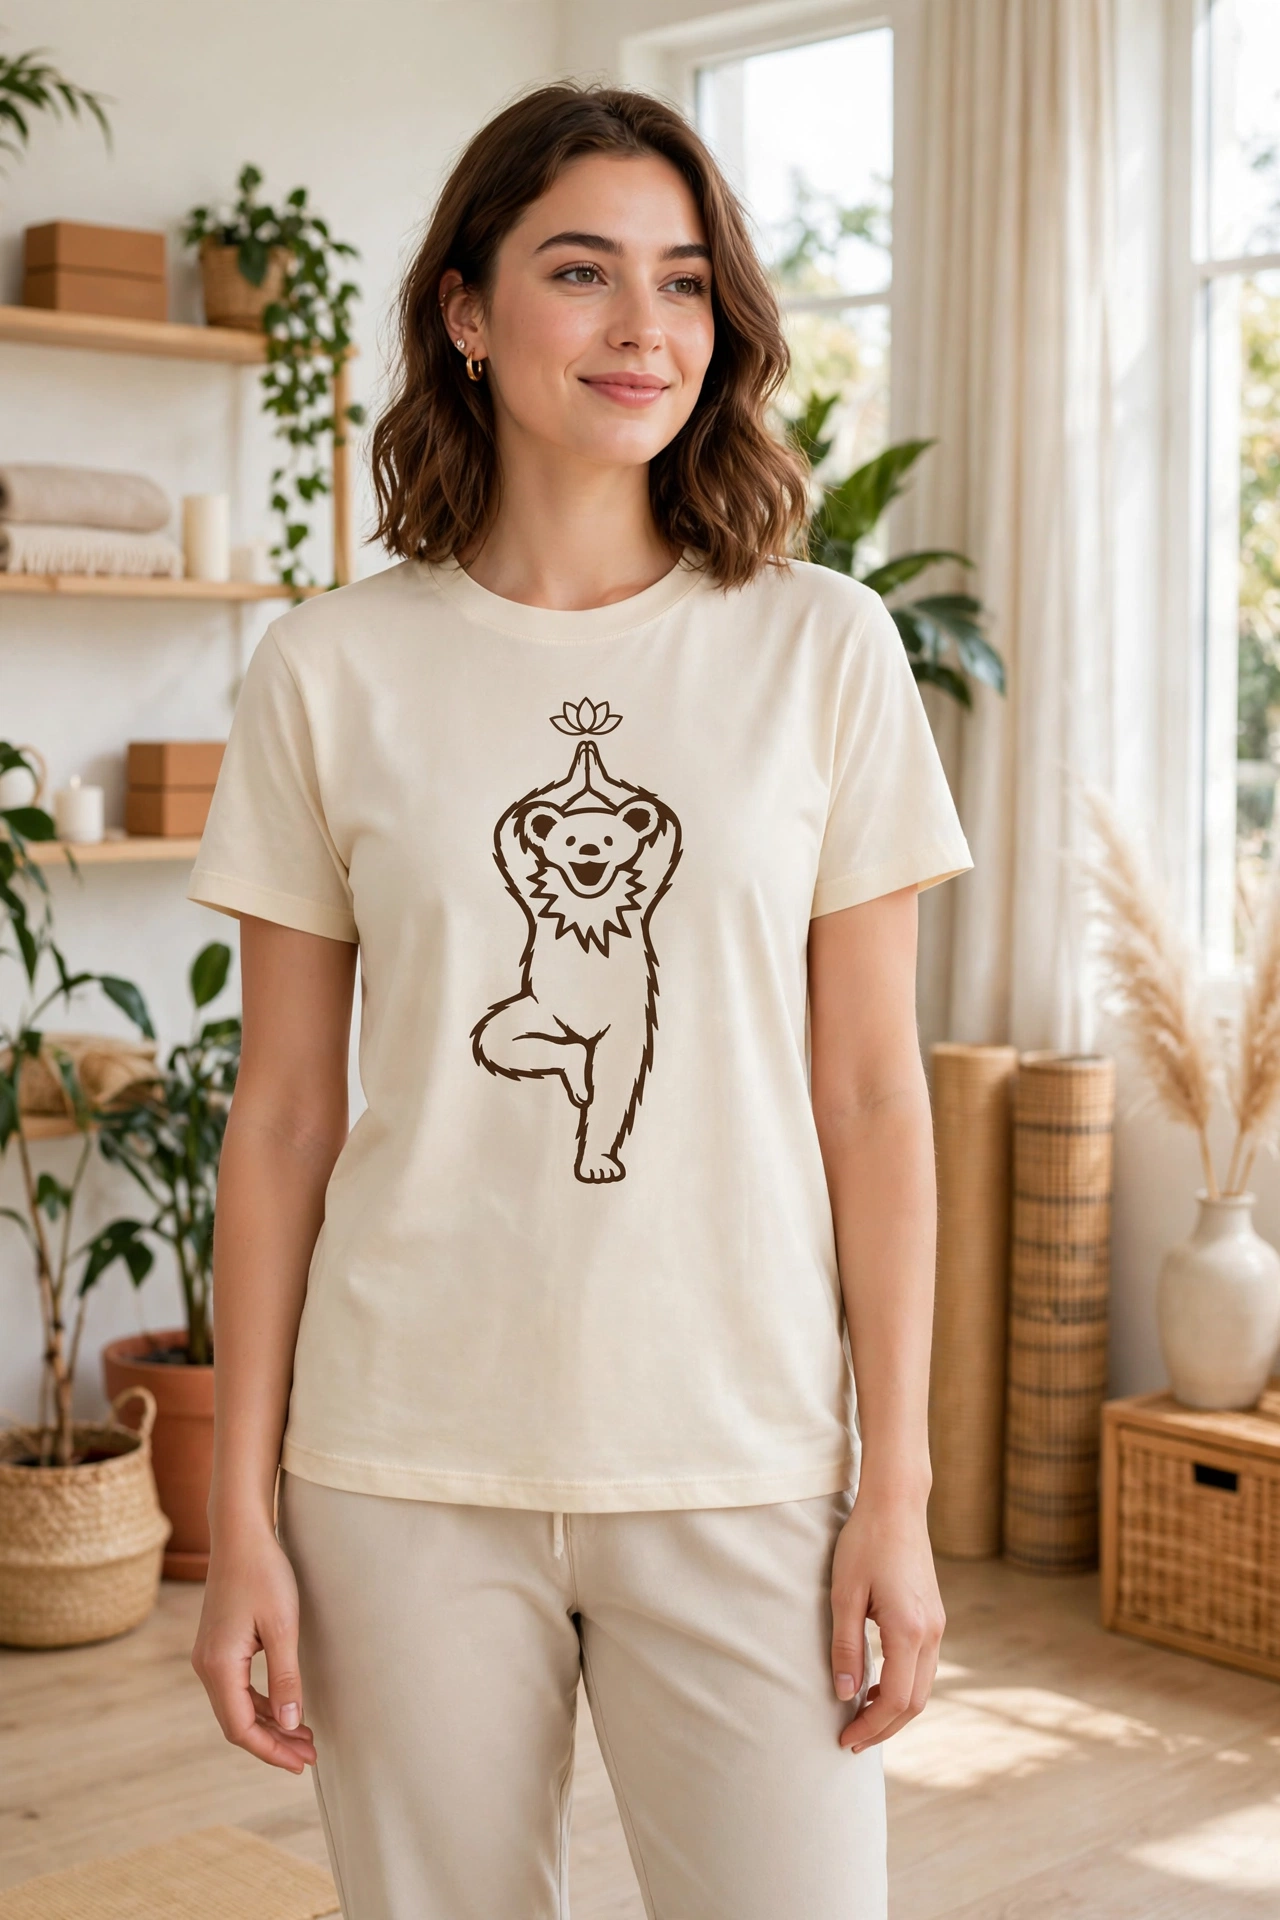
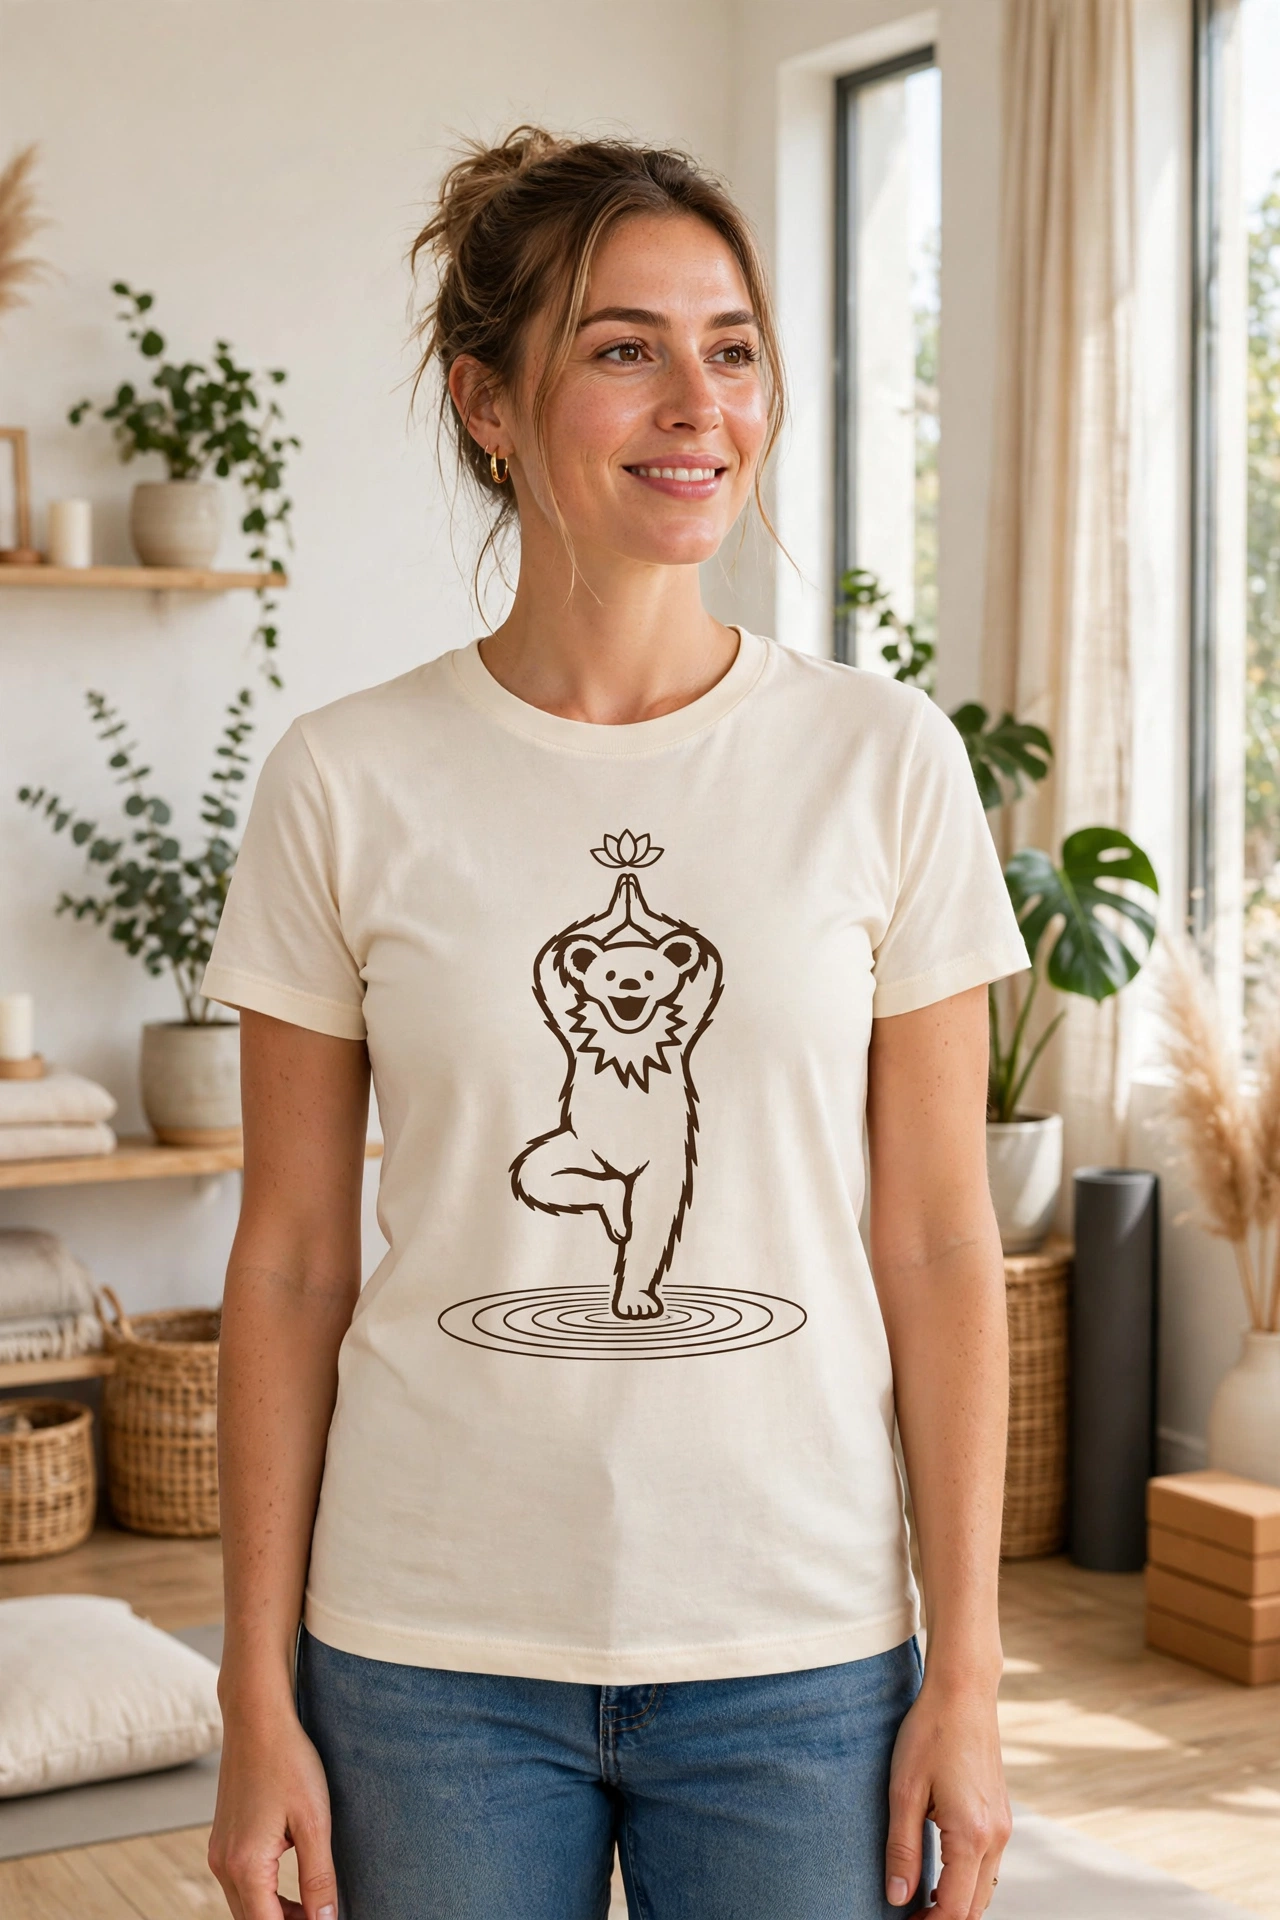
Swipeable shirt mockup gallery + ripple fix

diff --git a/script.js b/script.js
@@ -93,16 +93,67 @@
     if (e.key === 'Escape' && lightbox && lightbox.classList.contains('open')) closeLightbox();
   });
 
-  // Image lightbox — tap Root & Ripple designs to see mockups
+  // Image lightbox / carousel — tap Root & Ripple designs to see mockups
   var imgLightbox = document.getElementById('img-lightbox');
   var lightboxImg = document.getElementById('lightbox-img');
   var imgLightboxClose = document.getElementById('img-lightbox-close');
   var imgLightboxBackdrop = document.getElementById('img-lightbox-backdrop');
+  var carouselPrev = document.getElementById('carousel-prev');
+  var carouselNext = document.getElementById('carousel-next');
+  var carouselDots = document.getElementById('carousel-dots');
 
-  function openImgLightbox(imgSrc, imgAlt) {
+  var galleries = {
+    shirts: [
+      { src: 'mockup-bears-worn.webp', alt: 'Woman wearing the Yoga Bears shirt' },
+      { src: 'mockup-chic-worn.webp', alt: 'Woman wearing the Yoga Series shirt' },
+      { src: 'mockup-pizza-worn.webp', alt: 'Person wearing the Pizza Night shirt' }
+    ]
+  };
+  var currentGallery = null;
+  var currentIndex = 0;
+
+  function showCarouselImage() {
+    if (!currentGallery || !lightboxImg) return;
+    var item = currentGallery[currentIndex];
+    lightboxImg.src = item.src;
+    lightboxImg.alt = item.alt;
+    if (carouselDots) {
+      var dots = carouselDots.querySelectorAll('.dot');
+      dots.forEach(function (d, i) { d.classList.toggle('active', i === currentIndex); });
+    }
+  }
+
+  function buildDots() {
+    if (!carouselDots || !currentGallery) return;
+    carouselDots.innerHTML = '';
+    currentGallery.forEach(function (_, i) {
+      var dot = document.createElement('span');
+      dot.className = 'dot' + (i === 0 ? ' active' : '');
+      dot.addEventListener('click', function (e) { e.stopPropagation(); currentIndex = i; showCarouselImage(); });
+      carouselDots.appendChild(dot);
+    });
+  }
+
+  function setCarouselMode(isCarousel) {
+    [carouselPrev, carouselNext, carouselDots].forEach(function (el) {
+      if (el) el.classList.toggle('hidden', !isCarousel);
+    });
+  }
+
+  function openImgLightbox(src, alt, galleryName, startIndex) {
     if (!imgLightbox || !lightboxImg) return;
-    lightboxImg.src = imgSrc;
-    lightboxImg.alt = imgAlt || '';
+    if (galleryName && galleries[galleryName]) {
+      currentGallery = galleries[galleryName];
+      currentIndex = startIndex || 0;
+      buildDots();
+      setCarouselMode(true);
+      showCarouselImage();
+    } else {
+      currentGallery = null;
+      lightboxImg.src = src;
+      lightboxImg.alt = alt || '';
+      setCarouselMode(false);
+    }
     imgLightbox.classList.add('open');
     imgLightbox.setAttribute('aria-hidden', 'false');
     document.body.style.overflow = 'hidden';
@@ -114,8 +165,16 @@
     imgLightbox.classList.remove('open');
     imgLightbox.setAttribute('aria-hidden', 'true');
     document.body.style.overflow = '';
+    currentGallery = null;
   }
 
+  function carouselStep(dir) {
+    if (!currentGallery) return;
+    currentIndex = (currentIndex + dir + currentGallery.length) % currentGallery.length;
+    showCarouselImage();
+  }
+
+  // Single-image cards (decal -> storefront)
   document.querySelectorAll('.img-card[data-full]').forEach(function (card) {
     card.addEventListener('click', function () {
       var img = card.querySelector('img');
@@ -123,9 +182,39 @@
     });
   });
 
+  // Gallery cards (shirts -> swipeable carousel), start at tapped shirt
+  var shirtOrder = ['mockup-bears-worn.webp', 'mockup-chic-worn.webp', 'mockup-pizza-worn.webp'];
+  document.querySelectorAll('.img-card[data-gallery]').forEach(function (card) {
+    card.addEventListener('click', function () {
+      var img = card.querySelector('img');
+      var startAt = 0;
+      // match tapped thumbnail to its worn mockup
+      if (img && img.src.indexOf('rr-bears') > -1) startAt = 0;
+      else if (img && img.src.indexOf('rr-chic') > -1) startAt = 1;
+      else if (img && img.src.indexOf('rr-pizza') > -1) startAt = 2;
+      openImgLightbox(null, null, card.getAttribute('data-gallery'), startAt);
+    });
+  });
+
+  if (carouselPrev) carouselPrev.addEventListener('click', function (e) { e.stopPropagation(); carouselStep(-1); });
+  if (carouselNext) carouselNext.addEventListener('click', function (e) { e.stopPropagation(); carouselStep(1); });
   if (imgLightboxClose) imgLightboxClose.addEventListener('click', closeImgLightbox);
   if (imgLightboxBackdrop) imgLightboxBackdrop.addEventListener('click', closeImgLightbox);
   document.addEventListener('keydown', function (e) {
-    if (e.key === 'Escape' && imgLightbox && imgLightbox.classList.contains('open')) closeImgLightbox();
+    if (!imgLightbox || !imgLightbox.classList.contains('open')) return;
+    if (e.key === 'Escape') closeImgLightbox();
+    if (e.key === 'ArrowLeft') carouselStep(-1);
+    if (e.key === 'ArrowRight') carouselStep(1);
   });
+
+  // Touch swipe support
+  var touchStartX = 0;
+  if (imgLightbox) {
+    imgLightbox.addEventListener('touchstart', function (e) { touchStartX = e.touches[0].clientX; }, { passive: true });
+    imgLightbox.addEventListener('touchend', function (e) {
+      if (!currentGallery) return;
+      var dx = e.changedTouches[0].clientX - touchStartX;
+      if (Math.abs(dx) > 50) carouselStep(dx < 0 ? 1 : -1);
+    }, { passive: true });
+  }
 })();

diff --git a/index.html b/index.html
@@ -8,7 +8,7 @@
 <link rel="preconnect" href="https://fonts.googleapis.com">
 <link rel="preconnect" href="https://fonts.gstatic.com" crossorigin>
 <link href="https://fonts.googleapis.com/css2?family=Inter:wght@400;500;600;700;800;900&display=swap" rel="stylesheet">
-<link rel="stylesheet" href="style.css?v=4">
+<link rel="stylesheet" href="style.css?v=5">
 </head>
 <body>
 
@@ -154,20 +154,23 @@
     <video class="lightbox-video" id="lightbox-video" controls playsinline preload="none"></video>
   </div>
 
-  <!-- Image lightbox -->
+  <!-- Image lightbox / carousel -->
   <div class="img-lightbox" id="img-lightbox" aria-hidden="true">
     <div class="lightbox-backdrop" id="img-lightbox-backdrop"></div>
     <button class="lightbox-close" id="img-lightbox-close" aria-label="Close image">&times;</button>
+    <button class="carousel-prev" id="carousel-prev" aria-label="Previous image">&#10094;</button>
+    <button class="carousel-next" id="carousel-next" aria-label="Next image">&#10095;</button>
     <img class="lightbox-img" id="lightbox-img" src="" alt="">
+    <div class="carousel-dots" id="carousel-dots"></div>
   </div>
 
       <h3 class="gallery-title">Client Branding — Root and Ripple</h3>
       <p class="gallery-sub">Complete branding package for Root and Ripple, a yoga studio: custom shirt designs and a storefront window decal.</p>
       <div class="gallery">
         <figure class="img-card" data-full="mockup-decal-storefront.webp"><img src="rr-decal.webp" alt="Root and Ripple window decal design — tap to see it on the storefront" loading="lazy"><span class="zoom-badge" aria-hidden="true">&#10729;</span><figcaption>Window Decal — tap to see on storefront</figcaption></figure>
-        <figure class="img-card" data-full="mockup-bears-worn.webp"><img src="rr-bears.webp" alt="Root and Ripple dancing bear yoga shirt designs — tap to see worn" loading="lazy"><span class="zoom-badge" aria-hidden="true">&#10729;</span><figcaption>Shirt Designs — Yoga Bears — tap to see worn</figcaption></figure>
-        <figure class="img-card" data-full="mockup-chic-worn.webp"><img src="rr-chic.webp" alt="Root and Ripple yoga pose shirt designs — tap to see worn" loading="lazy"><span class="zoom-badge" aria-hidden="true">&#10729;</span><figcaption>Shirt Designs — Yoga Series — tap to see worn</figcaption></figure>
-        <figure class="img-card" data-full="mockup-pizza-worn.webp"><img src="rr-pizza.webp" alt="Root and Ripple meditating pizza shirt design — tap to see worn" loading="lazy"><span class="zoom-badge" aria-hidden="true">&#10729;</span><figcaption>Shirt Design — Pizza Night — tap to see worn</figcaption></figure>
+        <figure class="img-card" data-gallery="shirts"><img src="rr-bears.webp" alt="Root and Ripple dancing bear yoga shirt designs — tap to see worn" loading="lazy"><span class="zoom-badge" aria-hidden="true">&#10729;</span><figcaption>Shirt Designs — Yoga Bears — tap to see worn</figcaption></figure>
+        <figure class="img-card" data-gallery="shirts"><img src="rr-chic.webp" alt="Root and Ripple yoga pose shirt designs — tap to see worn" loading="lazy"><span class="zoom-badge" aria-hidden="true">&#10729;</span><figcaption>Shirt Designs — Yoga Series — tap to see worn</figcaption></figure>
+        <figure class="img-card" data-gallery="shirts"><img src="rr-pizza.webp" alt="Root and Ripple meditating pizza shirt design — tap to see worn" loading="lazy"><span class="zoom-badge" aria-hidden="true">&#10729;</span><figcaption>Shirt Design — Pizza Night — tap to see worn</figcaption></figure>
       </div>
     </div>
   </section>
@@ -255,6 +258,6 @@
   </div>
 </footer>
 
-<script src="script.js?v=4"></script>
+<script src="script.js?v=5"></script>
 </body>
 </html>

diff --git a/style.css b/style.css
@@ -327,3 +327,41 @@ img { max-width: 100%; height: auto; display: block; }
   object-fit: contain;
   border-radius: 8px;
 }
+
+/* Carousel controls */
+.carousel-prev, .carousel-next {
+  position: absolute;
+  top: 50%;
+  transform: translateY(-50%);
+  z-index: 2;
+  background: rgba(255,255,255,0.15);
+  border: none;
+  color: #fff;
+  font-size: 1.5rem;
+  width: 48px;
+  height: 48px;
+  border-radius: 50%;
+  cursor: pointer;
+}
+.carousel-prev { left: 12px; }
+.carousel-next { right: 12px; }
+.carousel-prev:hover, .carousel-next:hover { background: rgba(255,255,255,0.3); }
+.carousel-prev.hidden, .carousel-next.hidden { display: none; }
+.carousel-dots {
+  position: absolute;
+  bottom: 20px;
+  left: 50%;
+  transform: translateX(-50%);
+  z-index: 2;
+  display: flex;
+  gap: 8px;
+}
+.carousel-dots.hidden { display: none; }
+.carousel-dots .dot {
+  width: 10px;
+  height: 10px;
+  border-radius: 50%;
+  background: rgba(255,255,255,0.4);
+  cursor: pointer;
+}
+.carousel-dots .dot.active { background: #fff; }
